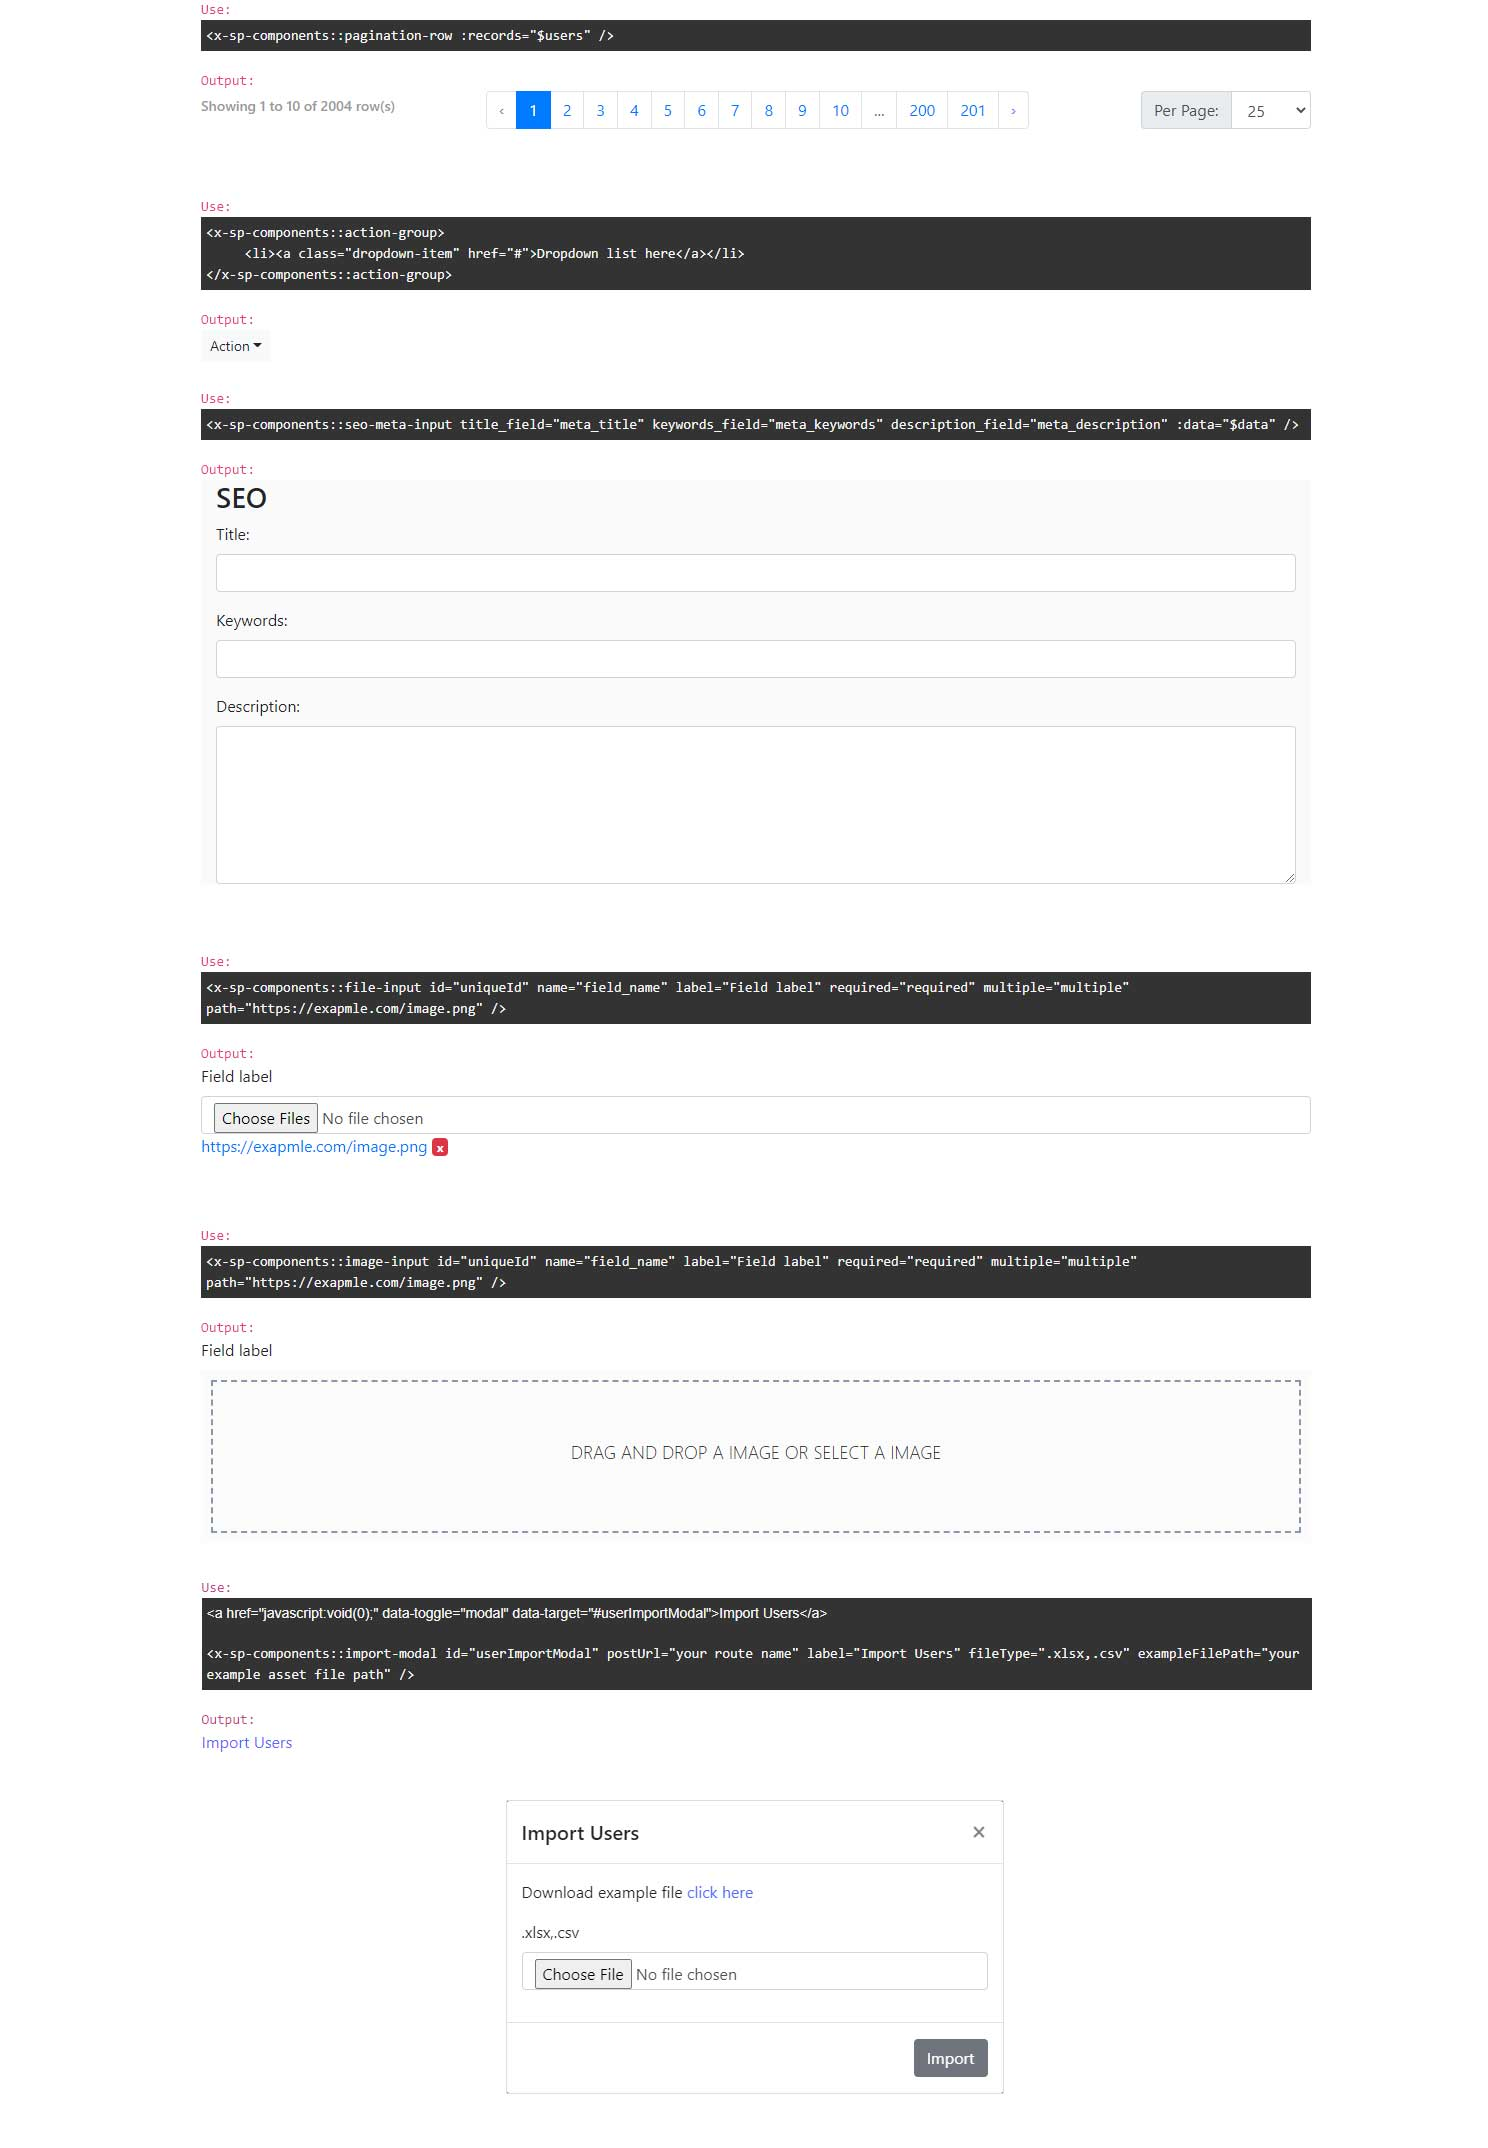
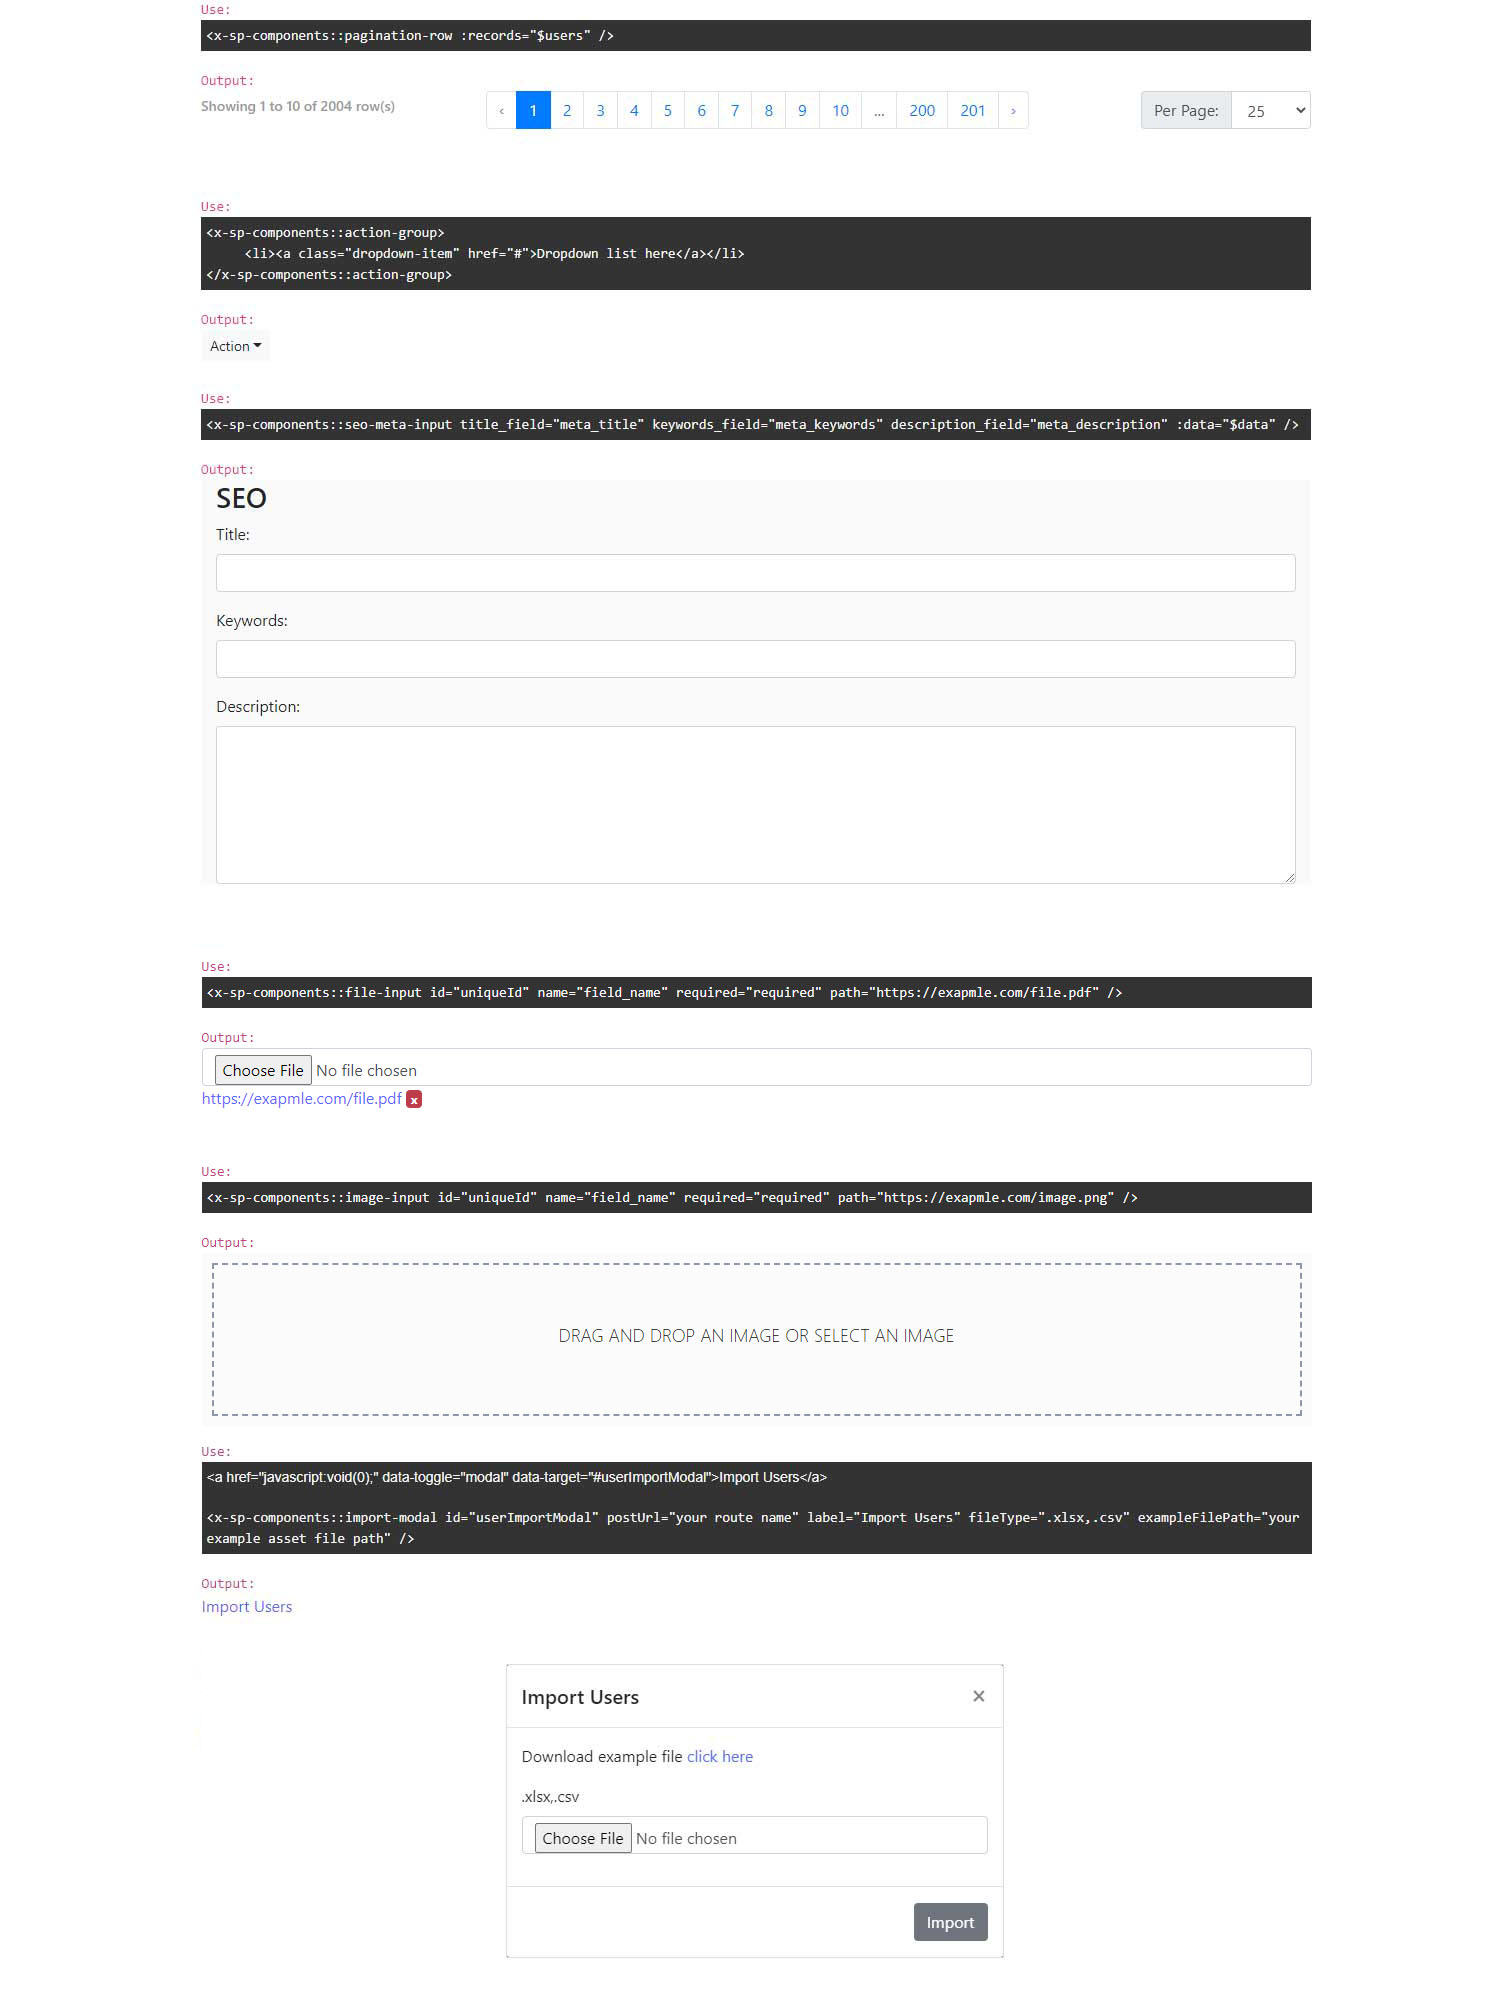
file-input & image-input multiple option removed

diff --git a/src/resources/views/components/inc/img-input-js.blade.php b/src/resources/views/components/inc/img-input-js.blade.php
@@ -5,13 +5,13 @@
             reader.onload = function(e) {
                 document.getElementById(`${id}_sp_img_upload_wrap`).style.display = 'none';
                 document.getElementById(`${id}_sp_img_upload_box`).innerHTML = `<div class="sp-img-container">
-                <img src="${e.target.result}" class="sp-img-container-image" />
-                <div class="sp-img-overlay">
-                    <a class="sp-img-overlay-icon">
-                        <button type="button" onclick="spRemoveImage('${id}')" class="btn btn-danger btn-sm">x</button>
-                    </a>
-                </div>
-            </div>`;
+                    <img src="${e.target.result}" class="sp-img-container-image" />
+                    <div class="sp-img-overlay">
+                        <a class="sp-img-overlay-icon">
+                            <button type="button" onclick="spRemoveImage('${id}')" class="btn btn-danger btn-sm">x</button>
+                        </a>
+                    </div>
+                </div>`;
                 document.getElementById(`${id}_sp_img_upload_content`).style.display = 'block';
                 
                 document.getElementById(`${id}_is_removed`).value = 0;

diff --git a/src/resources/views/components/bootstrap3/image-input.blade.php b/src/resources/views/components/bootstrap3/image-input.blade.php
@@ -7,7 +7,7 @@
 <div class="sp-img-upload" id="{{ $fileId }}">
     <div class="sp-img-upload-wrap" id="{{ $fileId }}_sp_img_upload_wrap" @if($filePath)style="display:none;"@endif>
         <input type="hidden" name="{{ $fileId }}_is_removed" id="{{ $fileId }}_is_removed" value="0" />
-        <input type="file" class="sp-img-upload-input" name="{{ $inputName }}" id="{{ $fileId }}_file" onchange="spReadUpload(this, '{{ $fileId }}');" accept="image/*" {{ $multiple }} {{ $required }}>
+        <input type="file" class="sp-img-upload-input" name="{{ $inputName }}" id="{{ $fileId }}_file" onchange="spReadUpload(this, '{{ $fileId }}');" accept="image/*" {{ $required }}>
         <h3>{{ trans('blade-components::sp_blade_components.drag_and_drop_text') }}</h3>
     </div>
     <div class="sp-img-upload-content" id="{{ $fileId }}_sp_img_upload_content" @if(!$filePath)style="display:none;"@endif>

diff --git a/src/resources/views/components/bootstrap4/image-input.blade.php b/src/resources/views/components/bootstrap4/image-input.blade.php
@@ -7,7 +7,7 @@
 <div class="sp-img-upload" id="{{ $fileId }}">
     <div class="sp-img-upload-wrap" id="{{ $fileId }}_sp_img_upload_wrap" @if($filePath)style="display:none;"@endif>
         <input type="hidden" name="{{ $fileId }}_is_removed" id="{{ $fileId }}_is_removed" value="0" />
-        <input type="file" class="sp-img-upload-input" name="{{ $inputName }}" id="{{ $fileId }}_file" onchange="spReadUpload(this, '{{ $fileId }}');" accept="image/*" {{ $multiple }} {{ $required }}>
+        <input type="file" class="sp-img-upload-input" name="{{ $inputName }}" id="{{ $fileId }}_file" onchange="spReadUpload(this, '{{ $fileId }}');" accept="image/*" {{ $required }}>
         <h3>{{ trans('blade-components::sp_blade_components.drag_and_drop_text') }}</h3>
     </div>
     <div class="sp-img-upload-content" id="{{ $fileId }}_sp_img_upload_content" @if(!$filePath)style="display:none;"@endif>

diff --git a/src/resources/views/components/bootstrap5/image-input.blade.php b/src/resources/views/components/bootstrap5/image-input.blade.php
@@ -7,7 +7,7 @@
 <div class="sp-img-upload" id="{{ $fileId }}">
     <div class="sp-img-upload-wrap" id="{{ $fileId }}_sp_img_upload_wrap" @if($filePath)style="display:none;"@endif>
         <input type="hidden" name="{{ $fileId }}_is_removed" id="{{ $fileId }}_is_removed" value="0" />
-        <input type="file" class="sp-img-upload-input" name="{{ $inputName }}" id="{{ $fileId }}_file" onchange="spReadUpload(this, '{{ $fileId }}');" accept="image/*" {{ $multiple }} {{ $required }}>
+        <input type="file" class="sp-img-upload-input" name="{{ $inputName }}" id="{{ $fileId }}_file" onchange="spReadUpload(this, '{{ $fileId }}');" accept="image/*" {{ $required }}>
         <h3>{{ trans('blade-components::sp_blade_components.drag_and_drop_text') }}</h3>
     </div>
     <div class="sp-img-upload-content" id="{{ $fileId }}_sp_img_upload_content" @if(!$filePath)style="display:none;"@endif>

diff --git a/src/View/Components/ImageInput.php b/src/View/Components/ImageInput.php
@@ -9,7 +9,6 @@ class ImageInput extends Component
     public $fileId;
     public $inputName;
     public $required;
-    public $multiple;
     public $filePath;
 
     /**
@@ -17,12 +16,11 @@ class ImageInput extends Component
      *
      * @return void
      */
-    public function __construct($id = 'image', $name = 'image', $required = null, $multiple = null, $path = null)
+    public function __construct($id = 'image', $name = 'image', $required = null, $path = null)
     {
         $this->fileId = $id;
         $this->inputName = $name;
         $this->required = $required;
-        $this->multiple = $multiple;
         $this->filePath = $path;
     }
 

diff --git a/src/View/Components/FileInput.php b/src/View/Components/FileInput.php
@@ -9,7 +9,6 @@ class FileInput extends Component
     public $fileId;
     public $inputName;
     public $required;
-    public $multiple;
     public $filePath;
 
     /**
@@ -17,12 +16,11 @@ class FileInput extends Component
      *
      * @return void
      */
-    public function __construct($id = 'file', $name = 'file', $required = null, $multiple = null, $path = null)
+    public function __construct($id = 'file', $name = 'file', $required = null, $path = null)
     {
         $this->fileId = $id;
         $this->inputName = $name;
         $this->required = $required;
-        $this->multiple = $multiple;
         $this->filePath = $path;
     }
 

diff --git a/src/resources/lang/en/sp_blade_components.php b/src/resources/lang/en/sp_blade_components.php
@@ -1,17 +1,22 @@
 <?php
 
 return [
+    // action-group: Dropdown label
     'action' => 'Action',
 
+    // pagination-row: Select label
     'paginate' => 'Per Page',
 
+    // image-input: Drag & Drom label
     'drag_and_drop_text' => 'Drag and drop an Image or select an Image',
 
+    // seo-meta-input: Input field label
     'meta_seo' => 'SEO',
     'meta_title' => 'Title',
     'meta_keywords' => 'Keywords',
     'meta_description' => 'Description',
     
+    // import-modal: Modal title, Example file text & button label
     'download_example_file' => 'Download example file',
     'click_here' => 'click here',
     'import' => 'Import',

diff --git a/src/resources/views/components/bootstrap4/file-input.blade.php b/src/resources/views/components/bootstrap4/file-input.blade.php
@@ -1,5 +1,5 @@
 <input type="hidden" name="{{ $fileId }}_is_removed" id="{{ $fileId }}_is_removed" value="0" />
-<input type="file" class="form-control{{ $errors->has($inputName) ? ' is-invalid' : '' }}" id="{{ $fileId }}_file" name="{{ $inputName }}" {{ $multiple }} {{ $required }}>
+<input type="file" class="form-control{{ $errors->has($inputName) ? ' is-invalid' : '' }}" id="{{ $fileId }}_file" name="{{ $inputName }}" {{ $required }}>
 
 @error($inputName)
     <span class="invalid-feedback d-block">{{ $message }}</span>

diff --git a/src/resources/views/components/bootstrap5/file-input.blade.php b/src/resources/views/components/bootstrap5/file-input.blade.php
@@ -1,5 +1,5 @@
 <input type="hidden" name="{{ $fileId }}_is_removed" id="{{ $fileId }}_is_removed" value="0" />
-<input type="file" class="form-control{{ $errors->has($inputName) ? ' is-invalid' : '' }}" id="{{ $fileId }}_file" name="{{ $inputName }}" {{ $multiple }} {{ $required }}>
+<input type="file" class="form-control{{ $errors->has($inputName) ? ' is-invalid' : '' }}" id="{{ $fileId }}_file" name="{{ $inputName }}" {{ $required }}>
 
 @error($inputName)
     <span class="invalid-feedback d-block">{{ $message }}</span>

diff --git a/src/resources/views/components/bootstrap3/file-input.blade.php b/src/resources/views/components/bootstrap3/file-input.blade.php
@@ -1,5 +1,5 @@
 <input type="hidden" name="{{ $fileId }}_is_removed" id="{{ $fileId }}_is_removed" value="0" />
-<input type="file" class="form-control" id="{{ $fileId }}_file" name="{{ $inputName }}" {{ $multiple }} {{ $required }}>
+<input type="file" class="form-control" id="{{ $fileId }}_file" name="{{ $inputName }}" {{ $required }}>
 
 @error($inputName)
     <span class="help-block">{{ $message }}</span>

diff --git a/README.md b/README.md
@@ -141,12 +141,12 @@ In `config/blade-components.php` config file you should set your data.
 
 #### 4. File Input Field:
 ```php
-<x-sp-components::file-input id="uniqueId" name="field_name" required="required" multiple="multiple" path="https://exapmle.com/image.png" />
+<x-sp-components::file-input id="uniqueId" name="field_name" required="required" path="https://exapmle.com/file.pdf" />
 ```
 
 #### 5. Image Input Field:
 ```php
-<x-sp-components::image-input id="uniqueId" name="field_name" required="required" multiple="multiple" path="https://exapmle.com/image.png" />
+<x-sp-components::image-input id="uniqueId" name="field_name" required="required" path="https://exapmle.com/image.png" />
 ```
 
 #### 6. Import Modal:
